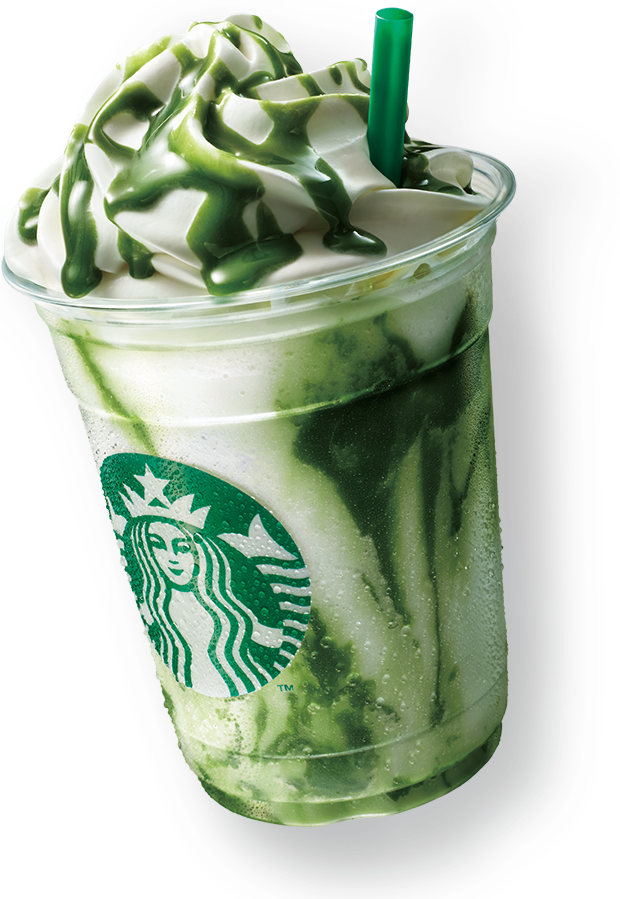
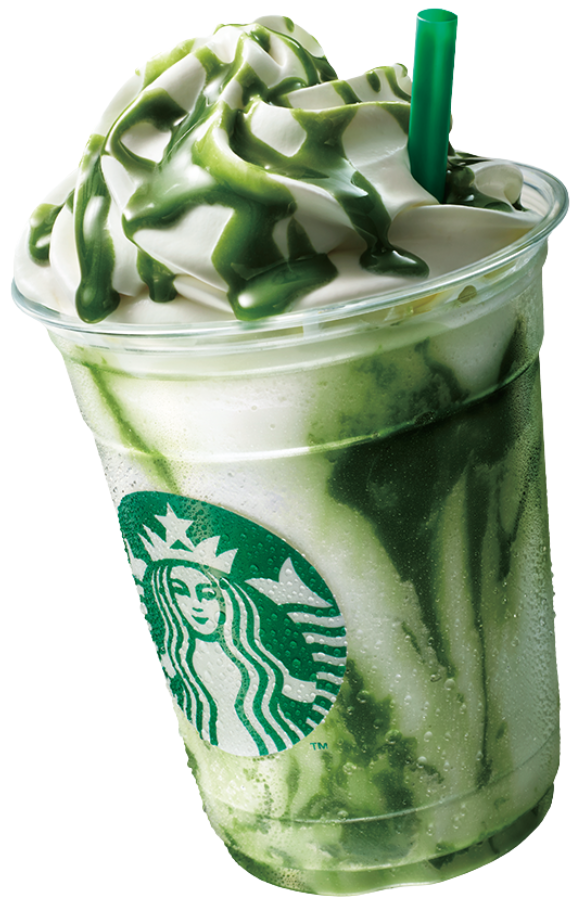
Made some modifications like shadow on images and button, circle and span color change on click

diff --git a/index.html b/index.html
@@ -24,38 +24,41 @@
       </header>
       <div class="content">
         <div class="text-box">
-          <h2>It's not just Coffee <br />It's <span>Starbucks</span></h2>
+          <h2>It's not just Coffee <br />It's <span>Starbucks !</span></h2>
           <p>
             Lorem ipsum dolor, sit amet consectetur adipisicing elit. Cum
             repudiandae cumque similique alias laborum fuga repellendus quam id
             minus necessitatibus, aspernatur repellat delectus doloribus
             consequatur nisi at ullam.
           </p>
-          <a href="#">Our menu</a>
+          <a class="btn" href="#">Our menu</a>
         </div>
         <div class="img-box">
-          <img src="./images/drink1.png" class="starbucks" alt="" />
+          <img src="./images/drink1.png" class="img starbucks" alt="" />
         </div>
       </div>
       <ul class="thumb">
         <li>
           <img
+            class="img"
             src="./images/thumb1.png"
-            onclick="imgSlider('./images/drink1.png');changeCircleColor('#ddd9cf')"
+            onclick="imgSlider('./images/drink1.png');changeColor('#ddd9cf', '#57843b')"
             alt=""
           />
         </li>
         <li>
           <img
+            class="img"
             src="./images/thumb2.png"
-            onclick="imgSlider('./images/drink2.png');changeCircleColor('#ead0ce')"
+            onclick="imgSlider('./images/drink2.png');changeColor('#e4ddc9', '#e2b76b')"
             alt=""
           />
         </li>
         <li>
           <img
+            class="img"
             src="./images/thumb3.png"
-            onclick="imgSlider('./images/drink3.png');changeCircleColor('#ead0ce')"
+            onclick="imgSlider('./images/drink3.png');changeColor('#e4d2d1', '#cf867d')"
             alt=""
           />
         </li>

diff --git a/style.css b/style.css
@@ -11,7 +11,7 @@ section {
     position: relative;
     width: 100%;
     min-height: 100vh;
-    padding: 100px;
+    padding: 100px 200px;
     display: flex;
     justify-content: space-between;
     align-items: center;
@@ -23,7 +23,7 @@ header {
     top: 0;
     left: 0;
     width: 100%;
-    padding: 20px 100px;
+    padding: 20px 200px;
     display: flex;
     justify-content: space-between;
     align-items: center;
@@ -67,13 +67,14 @@ header ul li a {
 .content .text-box h2 {
     color: #333;
     font-size: 4em;
-    line-height: 1.4em;
+    line-height: 1em;
     font-weight: 600;
 }
 
 .content .text-box h2 span {
-    color: #01713d;
-    line-height: 1.2em;
+    color: #50743c;
+    font-size: 1.2em;
+    line-height: 1em;
     font-weight: 900;
 }
 
@@ -81,7 +82,7 @@ header ul li a {
     display: inline-block;
     margin-top: 20px;
     padding: 8px 20px;
-    background: #01713d;
+    background: #50743c;
     color: #fff;
     border-radius: 40px;
     font-weight: 500;
@@ -151,5 +152,10 @@ header ul li a {
     width: 100%;
     height: 100%;
     background: #ddd9cf;
-    clip-path: circle(600px at right 800px);
+    clip-path: circle(800px at right 100px);
+}
+
+.img {
+    -webkit-filter: drop-shadow(5px 5px 10px rgba(0, 0, 0, 0.3));
+    filter: drop-shadow(5px 5px 10px rgba(0, 0, 0, 0.3));
 }

diff --git a/script.js b/script.js
@@ -2,7 +2,12 @@ function imgSlider(anything) {
   document.querySelector(".starbucks").src = anything;
 }
 
-function changeCircleColor(color) {
+function changeColor(bgColor, color) {
   const circle = document.querySelector(".circle");
-  circle.style.background = color;
+  const btn = document.querySelector(".btn");
+  const span = document.querySelector("span");
+
+  circle.style.background = bgColor;
+  btn.style.background = color;
+  span.style.color = color;
 }
